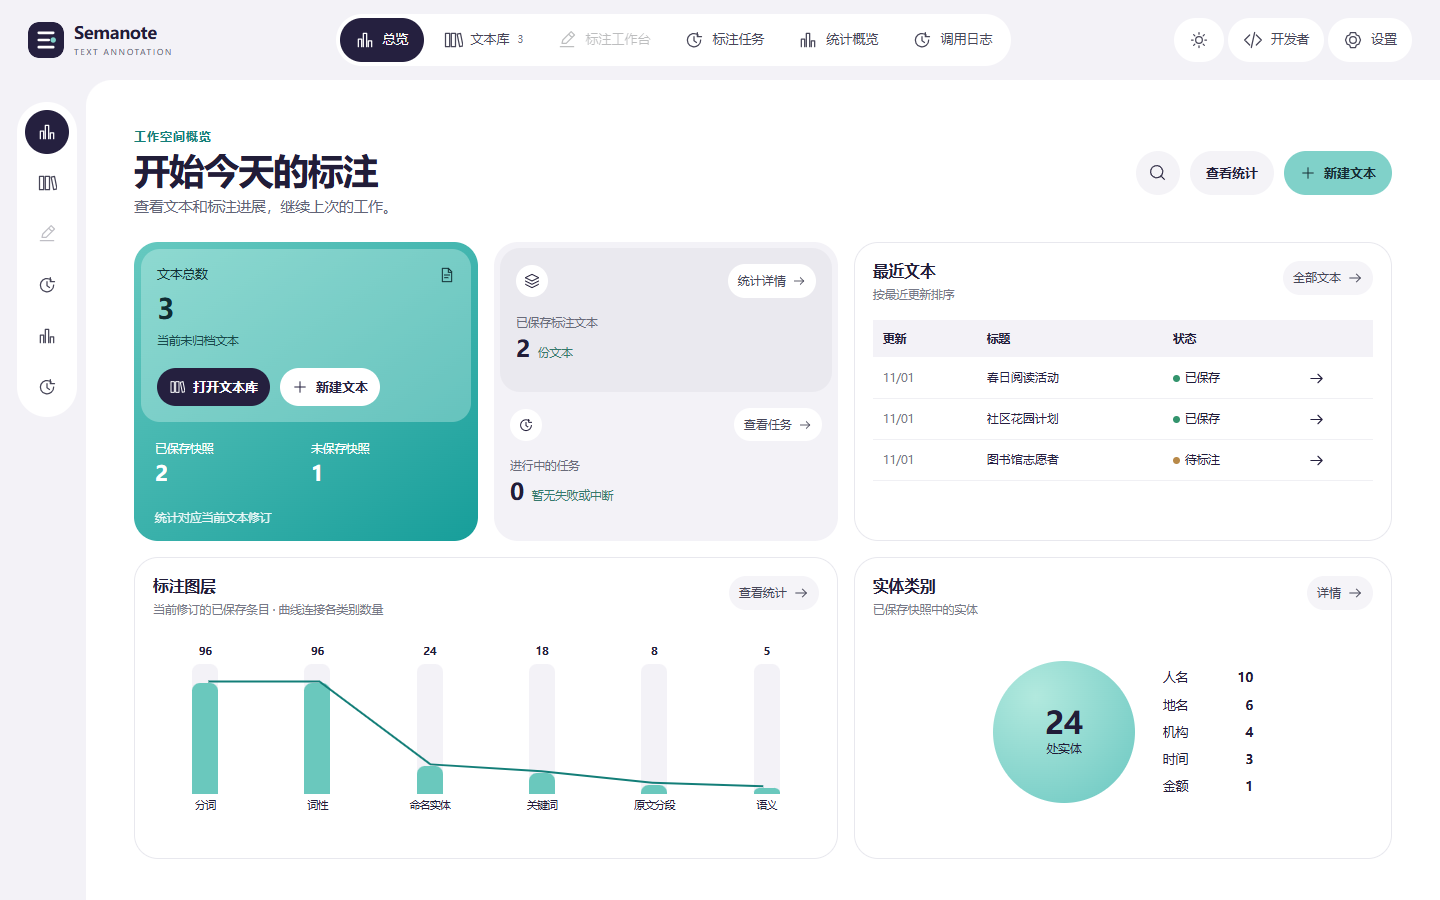
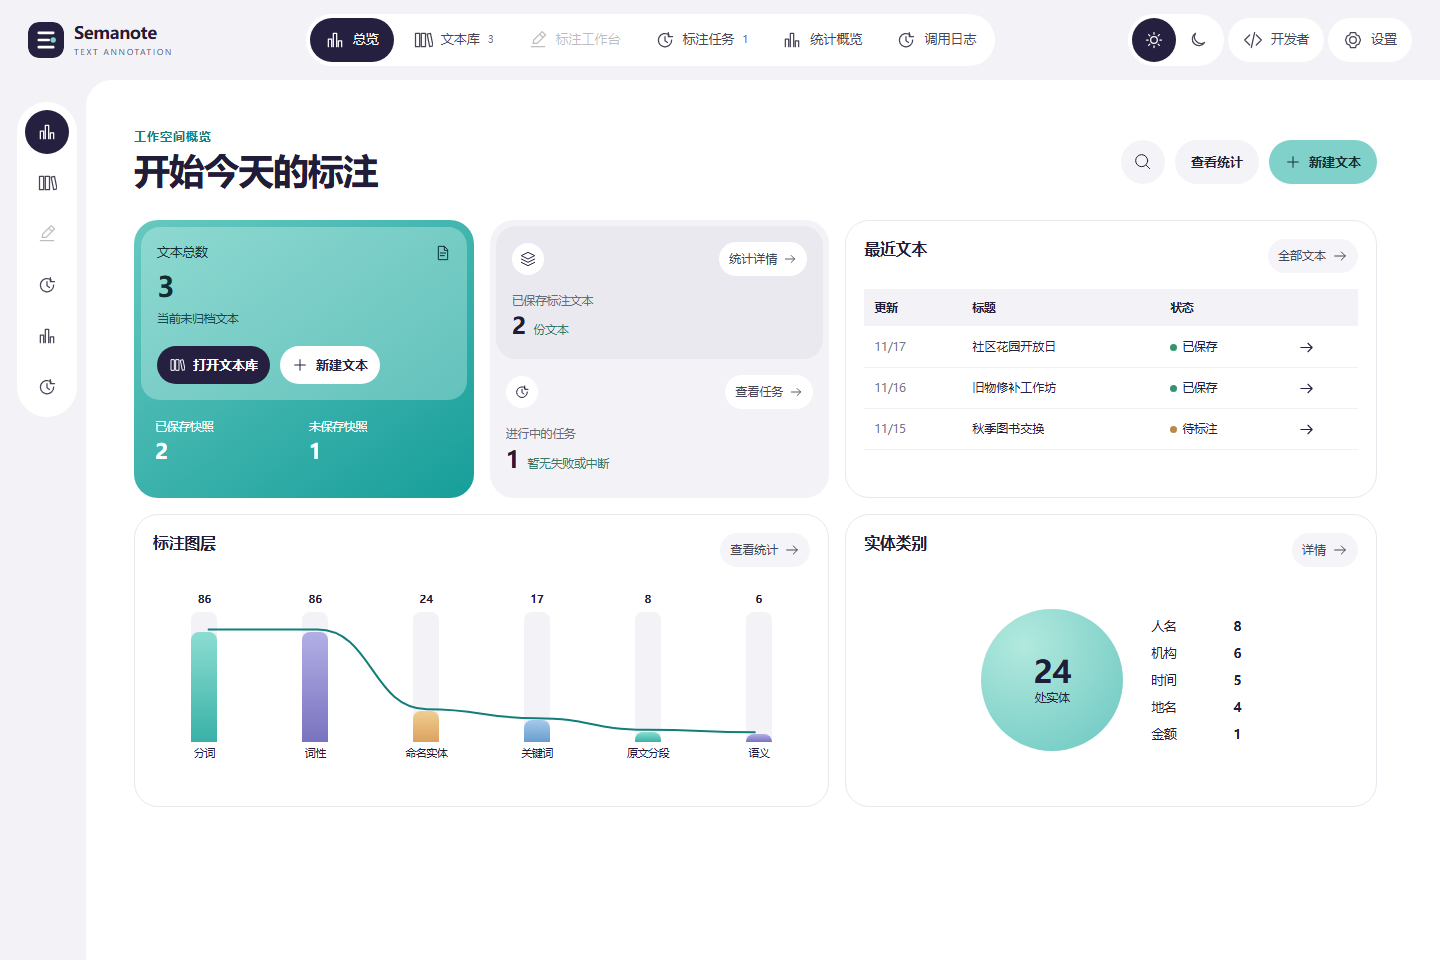
fix：更新发布版 README 与首页截图

diff --git a/README.md b/README.md
@@ -1,6 +1,6 @@
 # Semanote-Agent
 
-> 当前界面调整及验证状态见 [界面调整记录](docs/interface-refinement-report.md)。首页图为上一轮界面，使用原创合成数据。
+> 界面展示使用原创合成示例数据，不包含课程原文。
 
 **以原文为中心，完成可检查、可修正、可追溯的中文文本标注。**
 
@@ -19,7 +19,8 @@ Vue 3 · JavaScript · Bootstrap 5 ｜ Java 21 · Spring Boot ｜ JavaScript Age
 
 - 原文可叠加分词边界、关键词、词性和实体标记；点击结果可定位原文。
 - 自动结果先作为候选，人工修正后可保存快照。原文修改会产生新修订，历史标注保留在对应版本。
-- 统计和逐篇图谱展示当前选定版本；模型日志按日期展示已知 Token 用量和供应商缓存命中率。
+- 统计和逐篇图谱展示当前选定版本；关键词词云以字号表示出现次数，关系图可查看关联证据。
+- 模型日志按日期展示 Token 用量和供应商缓存命中率，支持近 7 天、近 30 天和全部范围。
 - 相同文本块可复用成功结果，失败层需显式重试；未知用量不会当作零。
 
 <a id="开始使用"></a>
@@ -58,8 +59,6 @@ node tools/local-web.mjs start
 
 导入支持 DOCX、UTF-8 TXT、Markdown、三列 CSV。单文本最多 10,000 码点、单文件 5 MiB、单批 500 文本。TXT/MD/DOCX 每文件一份正文，CSV 每格独立，保留来源行列；空白跳过并报告。
 
-![逐篇图谱：当前快照统计与可定位原文的事件角色](assets/readme/insights.png)
-
 <a id="架构与设计"></a>
 ## 架构与设计
 
@@ -72,18 +71,14 @@ node tools/local-web.mjs start
 | 智能体 | Node.js 原生 JavaScript：合并推理、分块、原文定位、依赖校验、缓存与脱敏日志 |
 | 存储 | MySQL 8.4 业务版本；本机文件保存配置、推理缓存与调用元数据 |
 
-[独立开发者中心](http://127.0.0.1:8080/developer) 提供设计规范、Bootstrap 组件展示、系统框架、调用日志和 Git 时间轴。系统图节点可进入前端、后端、智能体和数据库框架。
+[独立开发者中心](http://127.0.0.1:8080/developer) 提供设计规范、系统框架、调用日志和 Git 时间轴。系统图节点可进入前端、后端、智能体和数据库框架。
 
 [系统 Archify](docs/diagrams/system-architecture.html) · [智能体 Archify](docs/diagrams/agent-architecture.html) · [Apple 来源设计规范](docs/design/README.md) · [Web 契约](docs/web-contract.md) · [标注契约](docs/annotation-contract.md)
 
 <a id="验证与边界"></a>
 ## 验证与边界
 
-已发布基线为 [0.1.1](https://github.com/Ceeyu-iooi/Semanote-Agent/releases/tag/0.1.1)；当前沉浸工作区改造的实施与验证单独记录，未创建新版本标签。[0.1.1 验证](docs/0.1.1-report.md) · [本轮实现与验证](docs/immersive-report.md) · [本轮需求](docs/immersive-requirements.md) · [20 篇 README 提炼](docs/readme-research.md)
-
-2026-11-01 继续优化 Bootstrap 手风琴、频次详情、人物关系图、事件时间轴、统计层级、统一动效和真实任务进度。[优化需求](docs/interaction-requirements.md) · [十五轮交互验证与恢复](docs/interaction-report.md)
-
-用户要求重新逐项实施后的补充改动、失败试验与复核记录见 [交互补验报告](docs/interaction-rework-report.md)，当前仍待用户验收。
+查看 [发布准备与验证记录](docs/release-0.1.2-preparation.md)、[交互补验报告](docs/interaction-rework-report.md) 和 [变更记录](CHANGELOG.md)。
 
 - 自动结果为待审阅候选。格式与字符覆盖检查不等于语言学准确率；CSV 没有标准答案，跨块关系和歧义指代仍需人工检查。
 - 当前为单人工作流。局域网访问者共享同一空间，无独立账户、角色权限或任务分配。

diff --git a/docs/release-0.1.2-preparation.md b/docs/release-0.1.2-preparation.md
@@ -8,7 +8,7 @@
 - Java 后端：14 项测试通过；前端生产构建通过。
 - 初始化和工作流文档一致性检查通过。
 - 使用本地原创合成示例检查关键词词云：字号随出现次数变化，点击或聚焦显示次数，未出现右侧证据栏；支持减少动效。上述检查不代替用户验收。
[3 lines of base64/hex data omitted]
 
 ## 发布前仍需完成
